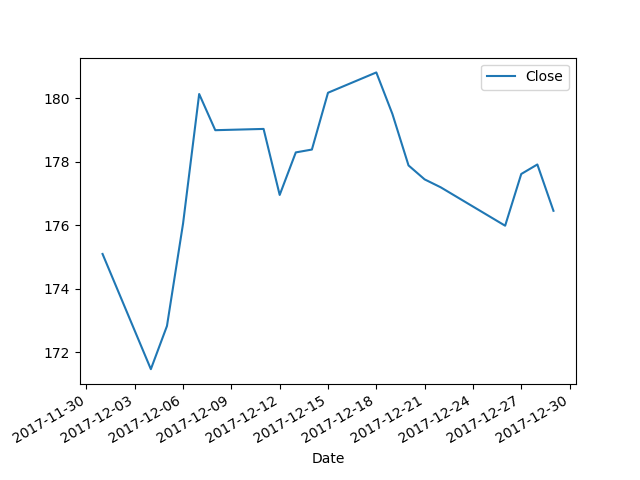
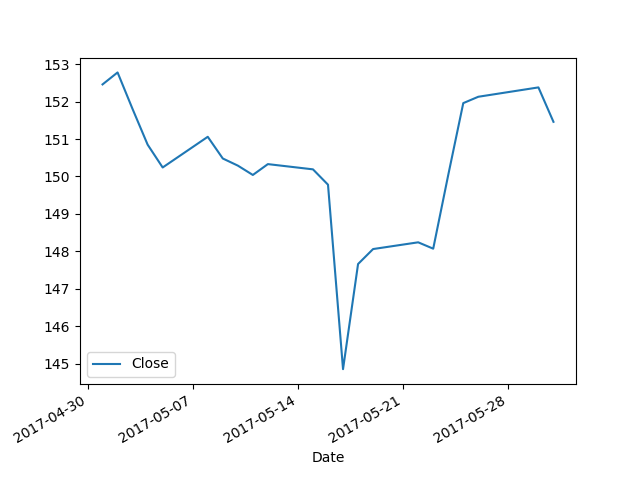
code for Bokeh plot added were commented out in app.py and a second plot function in day10.py, not working. Dropdown menu for selecting month added

diff --git a/templates/index.html b/templates/index.html
@@ -16,9 +16,9 @@
     <div class="container">
       <div class="row">
         <div class="col-lg-12 text-left">
-          <h2>Hello, World!</h2>
+          <h2>Yu-Chien's mix</h2>
           <ul>
-            <li><a href="/about">About</a></li>
+            <li><a href="/about">Ticker Lookup</a></li>
             <li><a target="_blank" href="https://www.heroku.com/">Heroku</a></li>
             <li><a target="_blank" href="http://flask.pocoo.org/">Flask</a></li>
             <li><a target="_blank" href="http://jinja.pocoo.org/docs/2.9/">Jinja2</a></li>

diff --git a/templates/graph.html b/templates/graph.html
@@ -15,12 +15,15 @@
     <div class="container">
       <div class="row">
         <div class="col-lg-12 text-left">
-          <h2>Graph</h2>
-          <p><a href="/">Home</a></p>
+          
+          <p>
+            <br/>
+            <a href="/about">Back To Ticker Lookup</a>
+          </p>
         </div>
         
       </div>
-      <p>{{ name }}</p>
+      <p>Closing Price Plot</p>
 
     <!-- <img src= {{ url }} alt="Chart" height="42" width="42"> -->
     <img src= {{ url }} >

diff --git a/templates/about.html b/templates/about.html
@@ -16,7 +16,7 @@
     <div class="container">
       <div class="row">
         <div class="col-lg-12 text-left">
-          <h2>About</h2>
+          <h2>Ticker Lookup: closing price of 2017</h2>
           <p><a href="/">Home</a></p>
         </div>
         {% with messages = get_flashed_messages(with_categories=true) %}

diff --git a/app.py b/app.py
@@ -1,12 +1,15 @@
 from flask import Flask, render_template, request, redirect, flash
-from wtforms import Form, TextField, TextAreaField, validators, StringField, SubmitField
+from wtforms import Form, TextField, TextAreaField, validators, StringField, SubmitField, SelectField
 from day10 import *
 import os
 
 
 class ReusableForm(Form):
     name = TextField('Ticker symbol:', validators=[validators.DataRequired()])
-    month = TextField('month:', validators=[validators.DataRequired()])
+   
+    #month = IntegerField("Month")
+    month = SelectField('Select Month', choices = [(1, 'Jan'), 
+      (2, 'Feb'),(3,'Mar'),(4,'Apr'),(5,'May'),(6,'Jun'),(7,'Jul'),(8,'Aug'),(9,'Sep'),(10,'Oct'),(11,'Nov'),(12,'Dec')])
 
 
 app = Flask(__name__, static_folder='public', template_folder='templates')
@@ -22,21 +25,31 @@ def graph():
     return render_template('graph.html')
 
 
+
+
 @app.route('/about', methods=['GET','POST'])
 def about():
   form = ReusableForm(request.form)
   print(form.errors)
   if request.method == 'POST':
       name=request.form['name']
-      month=int(request.form['month'])
-      print(name)
-      fig = df_one_month_closing_price(2017,12,'FB')
+      month=request.form['month']
+      #print(name, month, type(month))
+      fig = df_one_month_closing_price(2017,int(month),name)
       fig.savefig(os.path.join(app.root_path, 'public/plot'))
-      return render_template('graph.html', name = 'new_plot', url ='/public/plot.png')
+      return render_template('graph.html',  url ='/public/plot.png')
+      
+      
+      
+      # script, div = df_one_month_closing_price_v2(2017,12,'FB')
+      
+      # return render_template('/graph2.html', script= script, div= div)
+      
+      
+      
 # Save the comment here.
-      flash('Hello ' + name)
-  else:
-      flash('All the form fields are required. ')
+      
+  
       
 
   

diff --git a/day10.py b/day10.py
@@ -11,9 +11,12 @@ import simplejson as json
 import matplotlib
 matplotlib.use('Agg')
 import pandas as pd
-from bokeh.plotting import figure, output_file, show
-from bokeh.resources import CDN
-from bokeh.embed import file_html
+# from bokeh.plotting import figure, output_file, show
+# from bokeh.resources import CDN
+# from bokeh.embed import file_html
+# from bokeh.models import ColumnDataSource
+# from bokeh.embed import components
+
 
 
 
@@ -48,5 +51,26 @@ def df_one_month_closing_price(year,month,ticker):
     
     return fig
 
+# def df_one_month_closing_price_v2(year,month,ticker):
     
+#     start_date, end_date = start_end_dates(year, month)
+    
+#     queries = dict(column_index=4, start_date = start_date, end_date = end_date, api_key = 'WV5TpJc_gfxiAAgHRb6M')
+#     domain = 'https://www.quandl.com/api/v3/datasets/WIKI/'+ticker+'.json'
+    
+#     r = requests.get(domain, params = queries)
+    
+#     df = pd.DataFrame(r.json()['dataset']['data'],columns=['Date','Close'])
+#     df.set_index('Date',inplace = True)
+#     df.index = pd.to_datetime(df.index)
+
+#     source = ColumnDataSource(df)
+
+#     p = figure(x_axis_type="datetime",x_axis_label='Date', y_axis_label='Closing Price', plot_width=800, plot_height=350)
+#     p.line('Date', 'Close', source=source,line_width=2)
+#     script, div = components(p)
+    
+
+    
+#     return script, div
    
